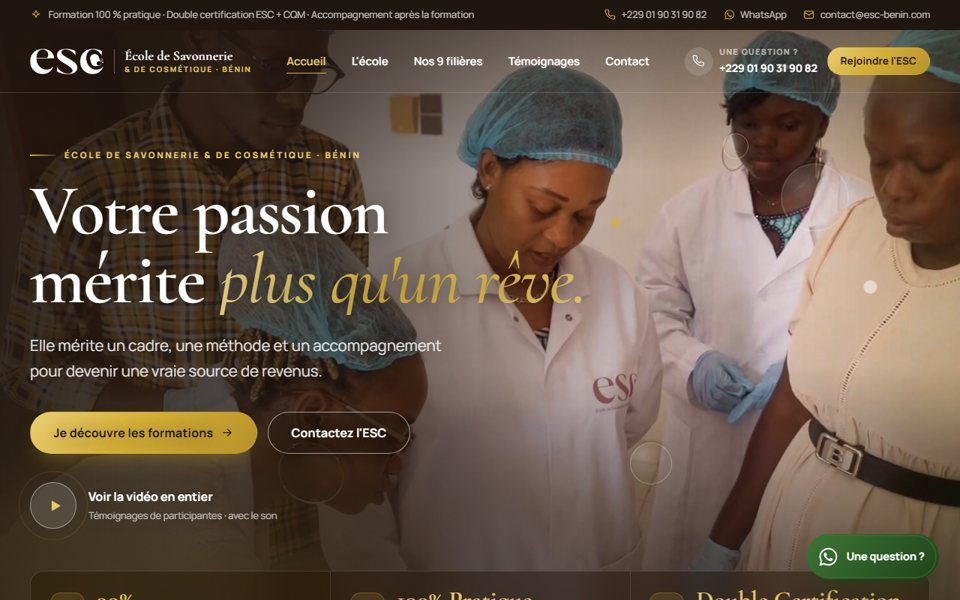
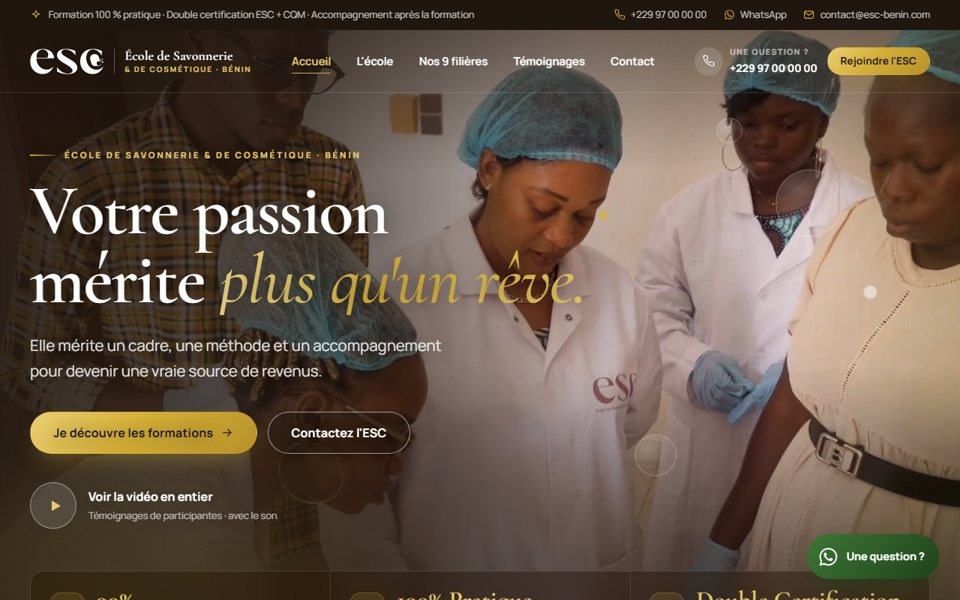
Portfolio: ESC en ligne (jean-marie.wuaze.com/esc), capture du site déployé

diff --git a/index.html b/index.html
@@ -250,7 +250,7 @@
     </article>
 
     <article class="card reveal" data-cat="hackathon" style="--a:#f59e0b;--b:#84cc16">
-      <a class="card__cover" href="https://github.com/jeanmarie2006/esc-ecole-savonnerie" target="_blank" rel="noopener" aria-label="Voir le code d'ESC sur GitHub">
+      <a class="card__cover" href="https://jean-marie.wuaze.com/esc/" target="_blank" rel="noopener" aria-label="Ouvrir le site ESC">
         <img src="assets/esc.jpg" alt="Page d'accueil du site de l'École de Savonnerie et de Cosmétique" loading="lazy" width="960" height="600">
         <span class="card__go" aria-hidden="true">↗</span>
       </a>
@@ -259,7 +259,7 @@
         <h3>ESC — École de Savonnerie &amp; Cosmétique</h3>
         <p>Site professionnel pour présenter les filières, les témoignages et les résultats de l'école, pensé pour présenter et vendre des formations en ligne.</p>
         <ul class="tags"><li>Site web</li><li>Expérience utilisateur</li><li>Travail d'équipe</li></ul>
-        <div class="card__links"><a class="is-main" href="https://github.com/jeanmarie2006/esc-ecole-savonnerie" target="_blank" rel="noopener">Voir le code sur GitHub <span aria-hidden="true">↗</span></a></div>
+        <div class="card__links"><a class="is-main" href="https://jean-marie.wuaze.com/esc/" target="_blank" rel="noopener">Voir le site <span aria-hidden="true">↗</span></a><a href="https://github.com/jeanmarie2006/esc-ecole-savonnerie" target="_blank" rel="noopener">Code GitHub <span aria-hidden="true">↗</span></a></div>
       </div>
     </article>
 
